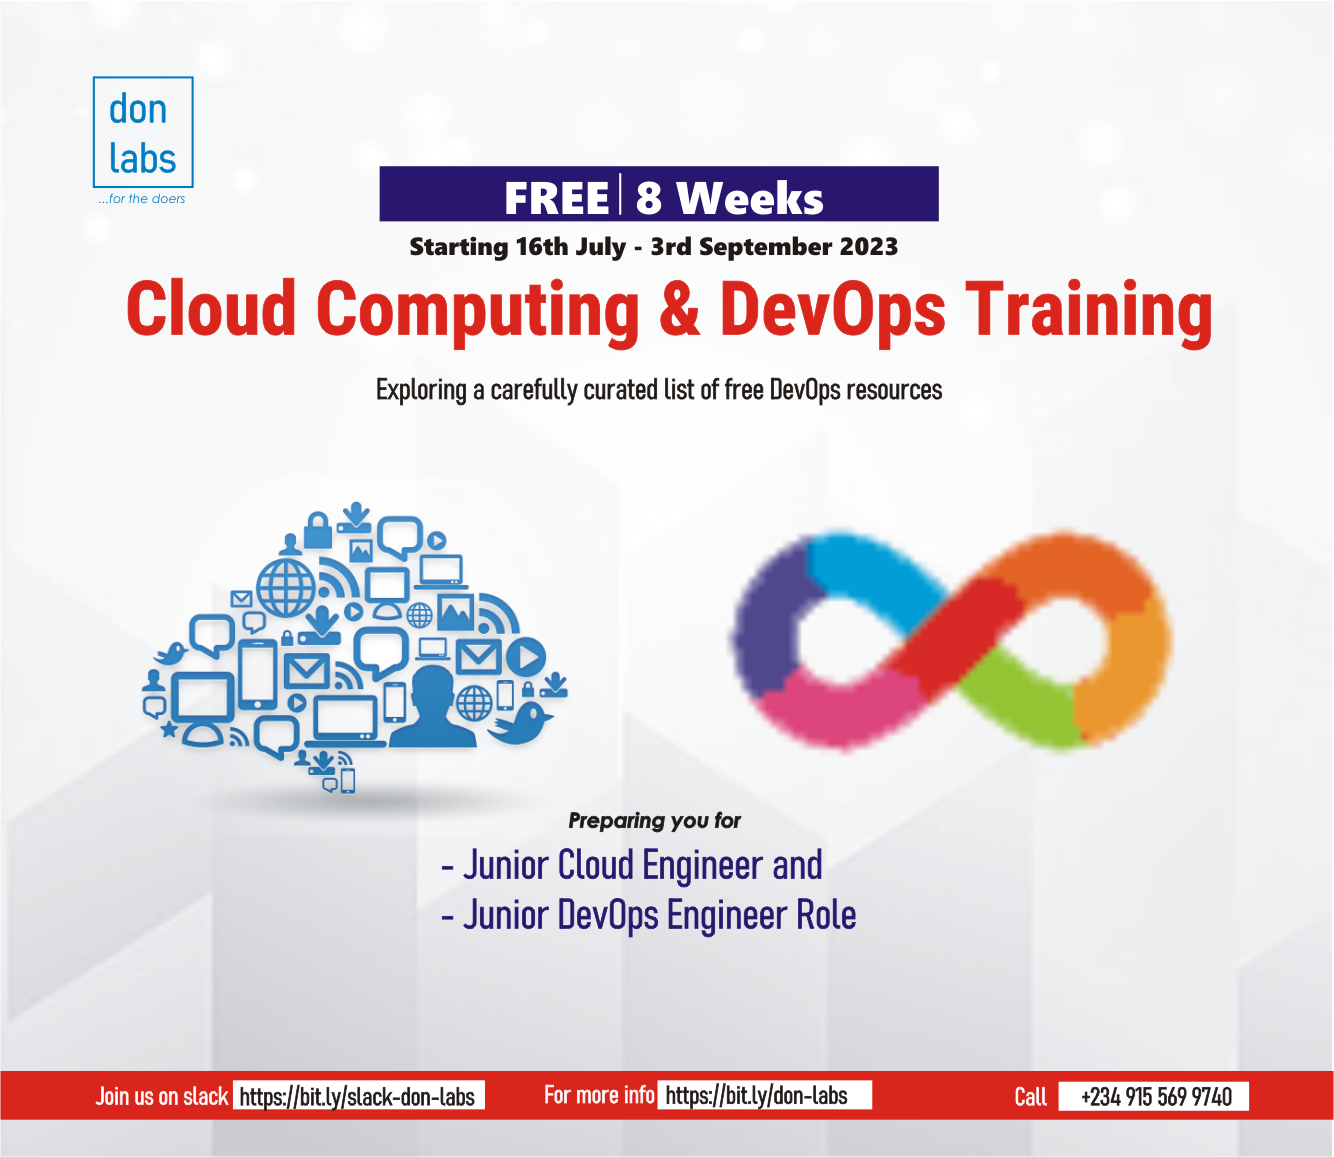
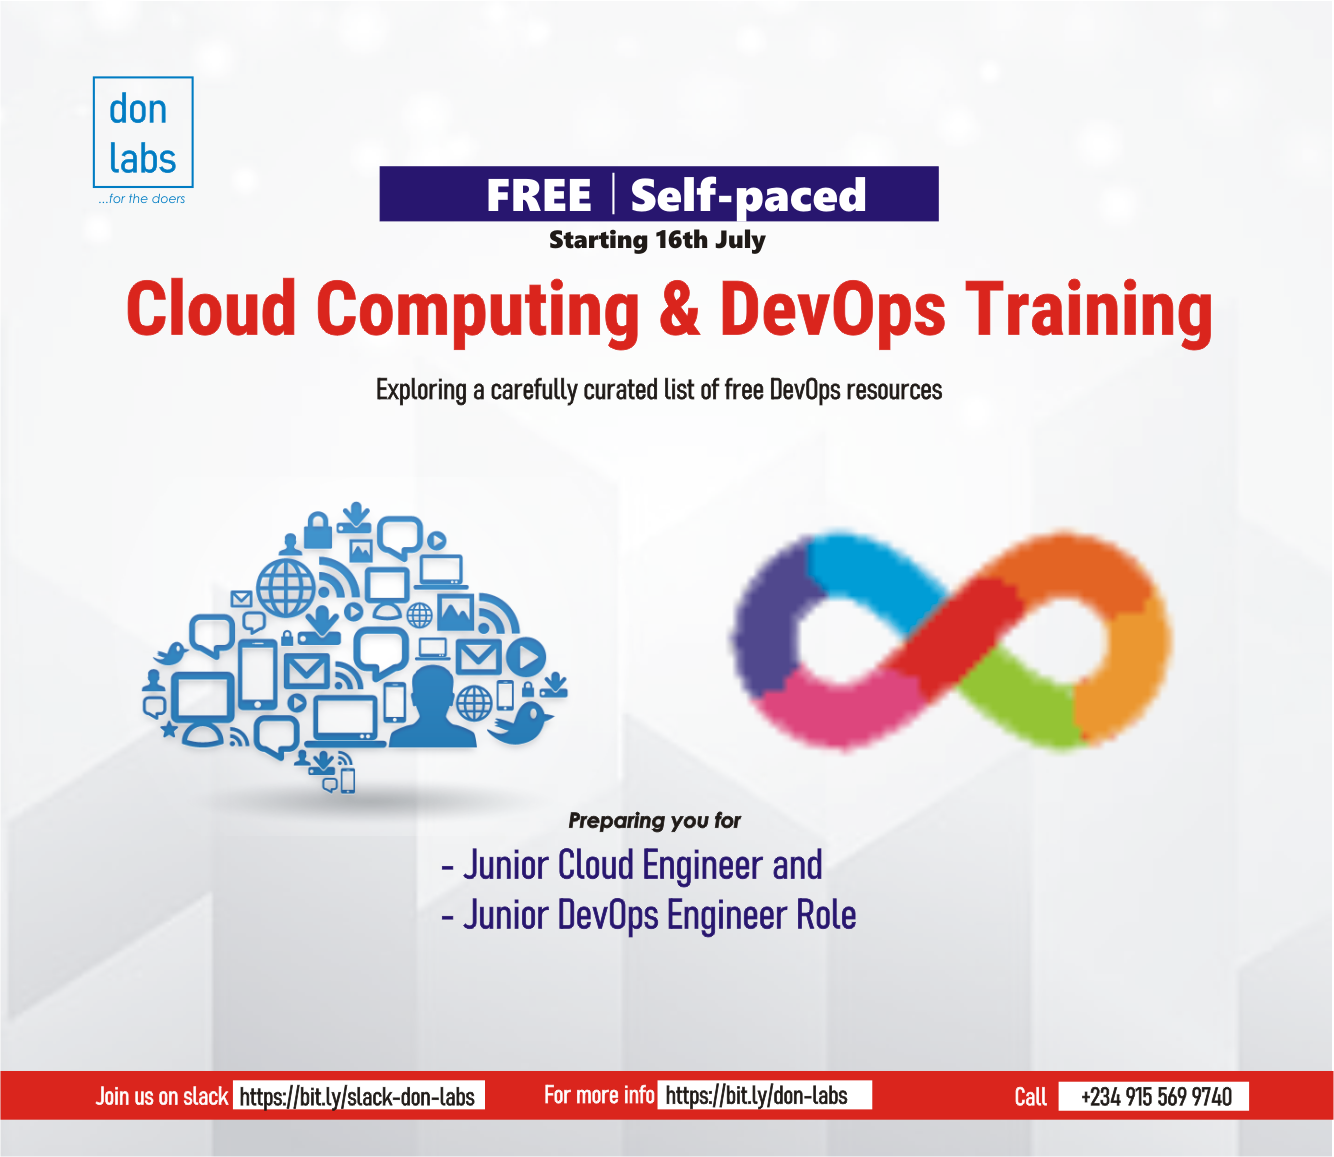
asset-added

Changed region(s): [[0.3073, 0.1556, 0.6762, 0.2178]]

diff --git a/docs/about/intro.md b/docs/about/intro.md
@@ -4,7 +4,7 @@
 
 Weekly Resource Schedule
 
-To make it easier to navigate and manage your learning, we have divided all of the resource materials into 8 weeks. Each week will focus on 2-3 key subjects.
+To make it easier to navigate and manage your learning, we have divided all of the resource materials into 8 weeks. Each week will focus on 2-3 key subjects. The program is intentionally designed for self-paced learning to allow participants the flexibility to learn at their own pace. However, to promote organization and foster a sense of accountability, an optional timeframe of 8 weeks has been introduced. Participants are encouraged to utilize this timeframe as a guideline, but they are also free to adapt it according to their individual preferences and learning needs.
 
 Here is a breakdown of the weekly schedule:
 

diff --git a/docs/week2/week2.md b/docs/week2/week2.md
@@ -2,7 +2,7 @@
 - Linux &
 - Scripting
 
-- Week 2 Walkthrough ([YouTube Week 2](https://www.youtube.com/watch?v=LelfqmdKorU))
+- Week 2 Walkthrough ([YouTube Week 2](https://bit.ly/learn-scripting))
 
 **Contents** <a name="Contents"></a>
 <!-- TOC -->
